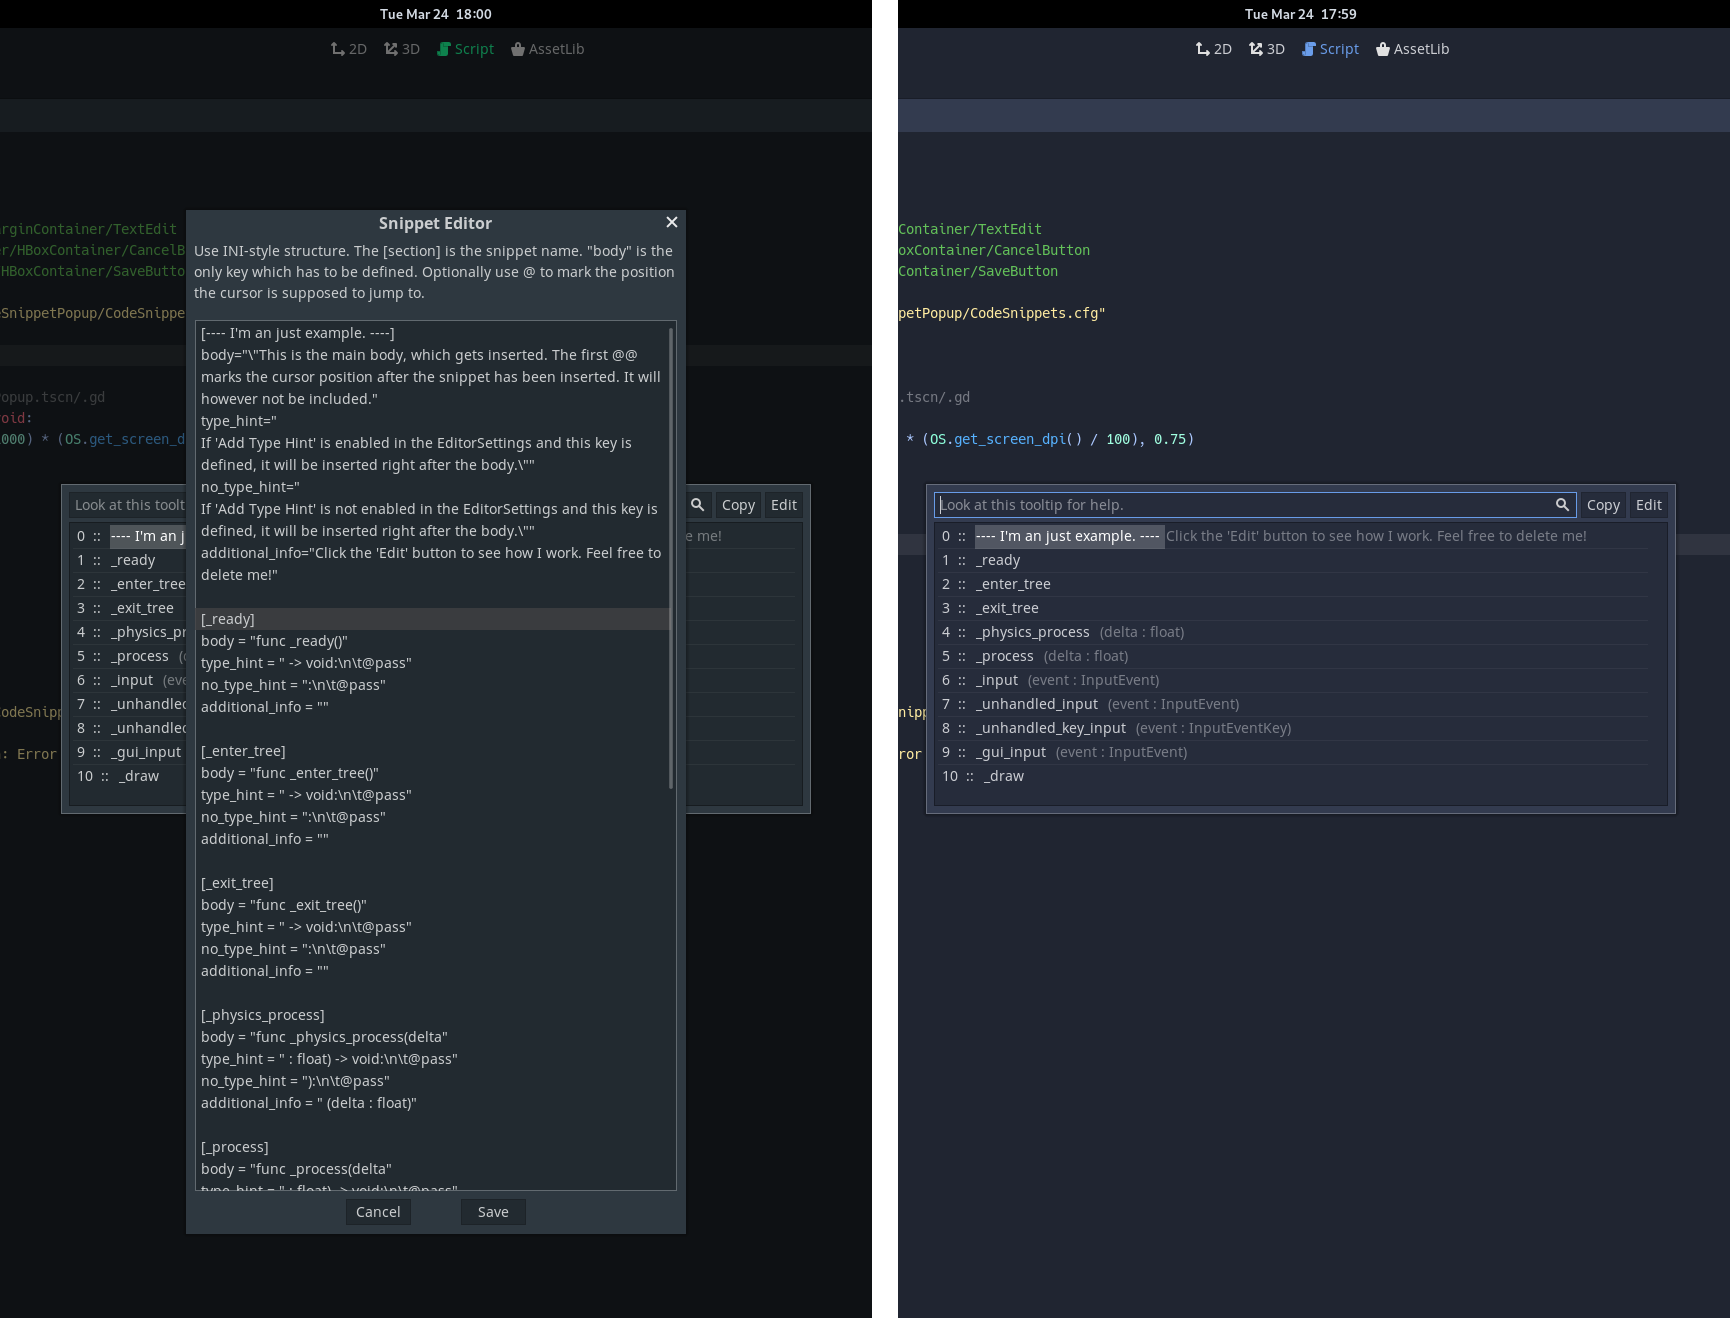
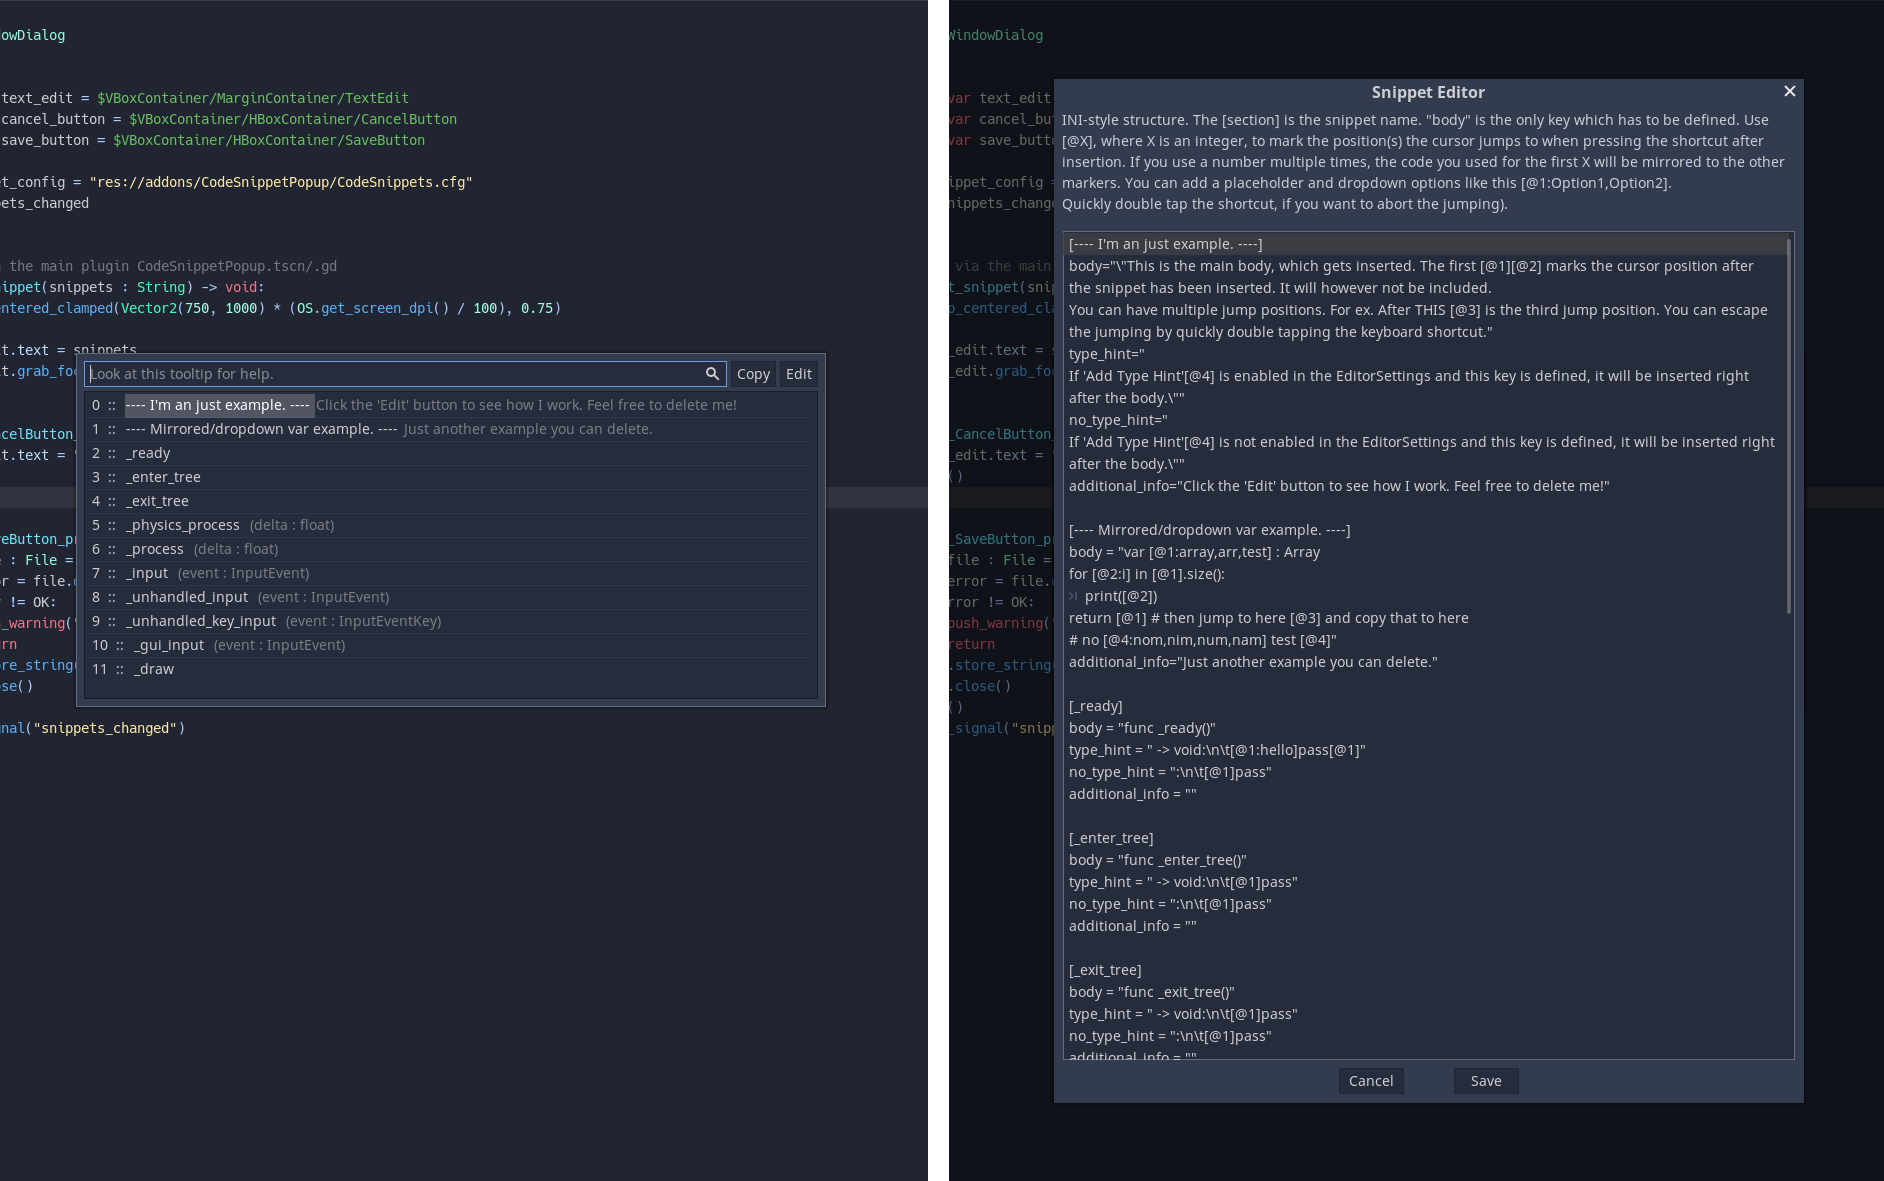
got placeholder/choices more or less working

diff --git a/README.md b/README.md
@@ -2,8 +2,16 @@
 
 This plugin for Godot 3.2.X adds a popup which lists all available code snippets. The popup is shown with Control+Tab. 
 
-The snippets can be filtered by a search_string. Ending the seach_string with " X" will jump to the X-th item in the snippet list. Activating a snippet will insert it at the cursor position. The snippets can be edited within Godot itself using the "Edit" button. You can define multiple positions the cursor will jump to in the snippet after insertion with an "[@X]" (and pressing the keyboard shortcut again). X needs to be an integer. Using the same number multiple times will "mirror"  variables to the same markers (see the example in the plugin).
+The snippets can be filtered by a search_string. Ending the seach_string with " X" will jump to the X-th item in the snippet list. Activating a snippet will insert it at the cursor position. The snippets can be edited within Godot itself using the "Edit" button or you can directly edit the .cfg file with the editor of your choice. 
 
+You can define "tabstops", "mirrorable variables" and "placeholders/dropdown choice".
+
+**See the example in the plugin for more details.**
+
+*Known issues:* 
+
+- "Esc"-aping the dropdown choice options without changing the placeholder will mess up the formatting of the snippet.
+- The position of the dropdown options isn't right. I need a better way to position it.
 
 **Installation**:
 
